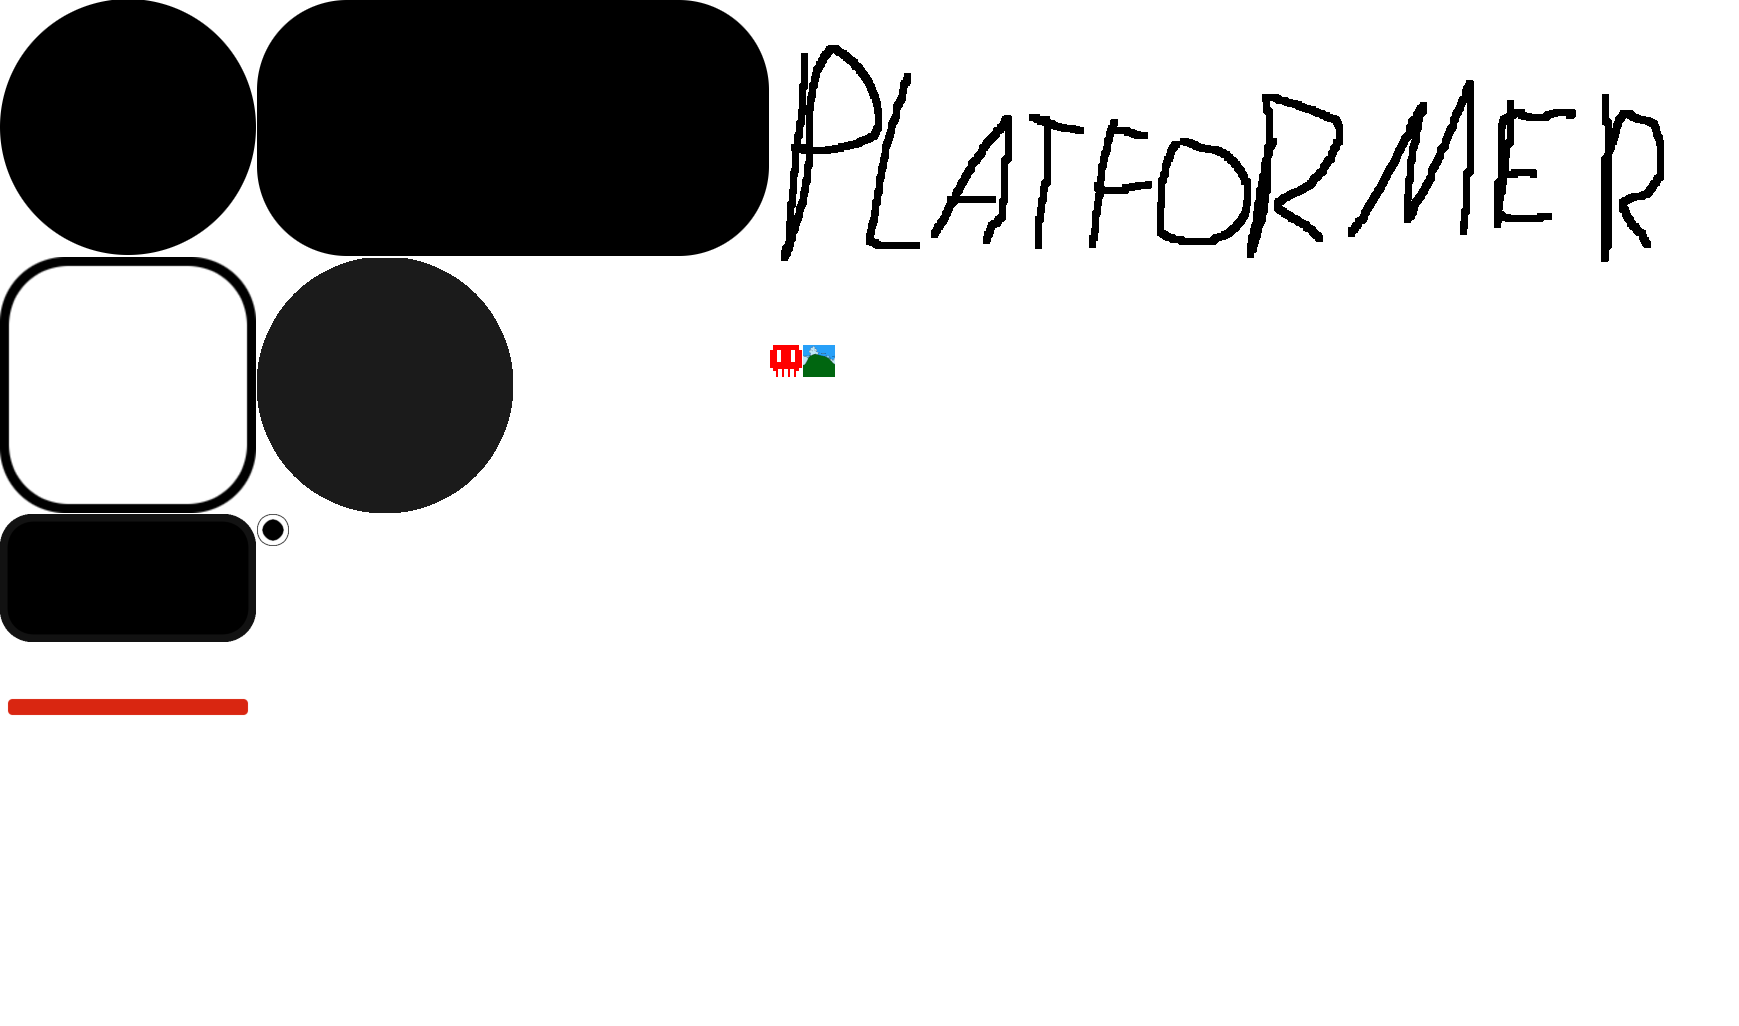
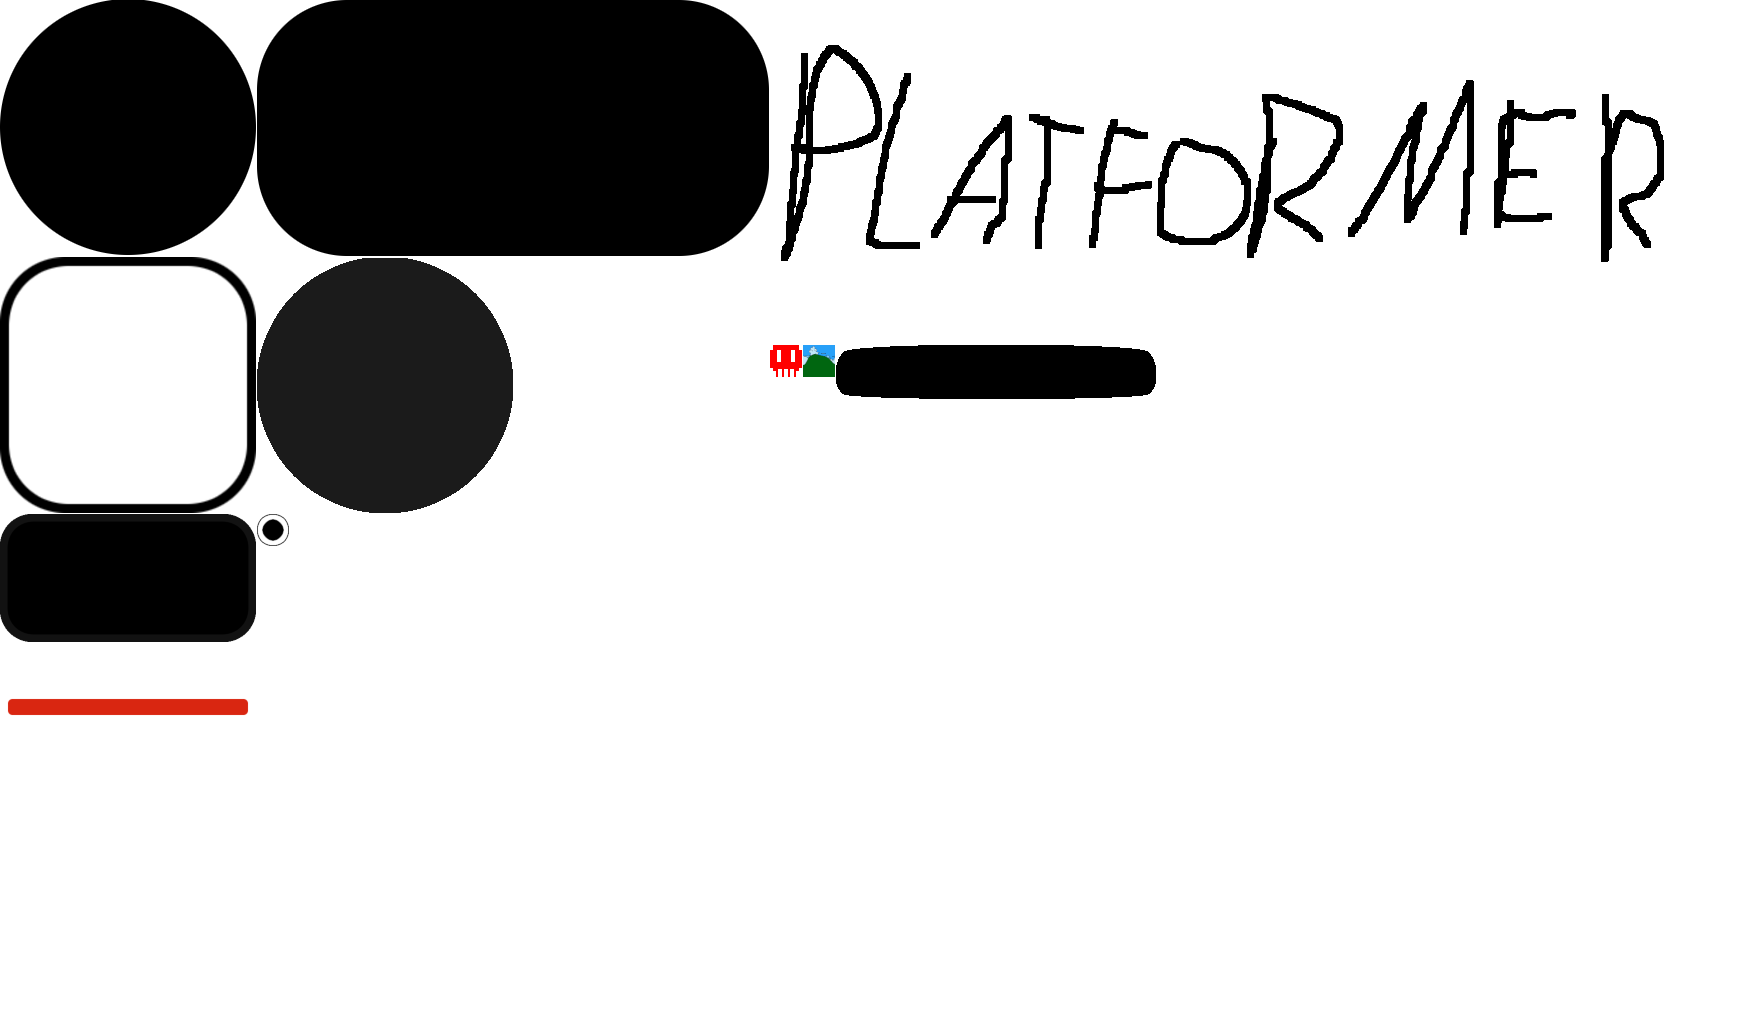
feat: better props ui

Changed region(s): [[0.4658, 0.3119, 0.6832, 0.4055]]

diff --git a/src/world/worlds/editor/ui.ts b/src/world/worlds/editor/ui.ts
@@ -1,10 +1,10 @@
-import { Content } from "@pixi/layout";
+import { Content, Layout } from "@pixi/layout";
 import { Input, ScrollBox } from "@pixi/ui";
 import { Screen } from "@ui/screen";
-import { GameObjectID, GOID, PropertyValue, PropType } from "gameObject";
-import { Sprite, Text, Texture } from "pixi.js";
+import { GameObjectID, GOID, PropertyValue } from "gameObject";
+import { Container, Sprite, Text, Texture } from "pixi.js";
 import { Editor } from ".";
-import { getClassFromID } from "gameObject/utils";
+import { getClassFromID, validateProp } from "gameObject/utils";
 import { Storage } from "@lib/storage";
 import { Window } from "@lib/ui/Window";
 import { SmallButton } from "@lib/ui/small_button";
@@ -27,7 +27,7 @@ export class EditorUi extends Screen {
 			text: "🗑",
 			hoverText: i18next.t("erase"),
 			hoverContainer: this,
-			onClick: (self) => {
+			onClick: () => {
 				this.switchErase();
 			},
 		});
@@ -141,7 +141,7 @@ export class EditorUi extends Screen {
 				content: this.props,
 				styles: {
 					position: "centerRight",
-					margin: 5,
+					marginRight: 150,
 					height: "50%",
 					width: "20%",
 				},
@@ -191,21 +191,22 @@ export class EditorUi extends Screen {
 		this.propertyValue = [];
 	}
 	get props() {
-		const propsContent: Content = [];
+		const propsContent: Layout[] = [];
 		if (!this.selected) return propsContent;
 
 		const props = getClassFromID(this.selected).props;
 
 		for (const prop of props) {
 			const input = new Input({
-				bg: Sprite.from("big_button"),
+				bg: "input",
 				textStyle: {
 					fill: "white",
-					fontSize: 100,
+					fontSize: 20,
 				},
-				placeholder: `Input ${prop.name}`,
+				nineSliceSprite: [160, 27, 160, 27],
+				placeholder: `Input ${prop.name} (${prop.type})`,
+				addMask: true,
 			});
-			input.scale = 0.2;
 			const placeholder = input.children.find((v) => {
 				if (!(v instanceof Text)) return false;
 				return v.text == `Input ${prop.name}`;
@@ -216,29 +217,14 @@ export class EditorUi extends Screen {
 			});
 			input.onEnter.connect((v) => {
 				Actions.lock = false;
-				switch (prop.type) {
-					case PropType.number: {
-						const isNumber = !isNaN(Number(v));
-						if (isNumber) break;
-						placeholder.text = "Invalid number";
-						input.value = "";
+				if (!validateProp({ value: v, type: prop.type, name: prop.name })) {
+					input.value = "";
+					placeholder.text = "Invalid input";
 
-						return;
-					}
-					case PropType.goid: {
-						if (getClassFromID(v as GameObjectID)) break;
-						placeholder.text = "Invalid gameObject";
-						input.value = "";
-
-						return;
-					}
-					case PropType.boolean: {
-						const valid = v == "true" || v == "false" || v == "1" || v == "0";
-						if (valid) break;
-						placeholder.text = "Invalid format";
-						input.value = "";
-						return;
-					}
+					setTimeout(() => {
+						placeholder.text = `Input ${prop.name} (${prop.type})`;
+					}, 2000);
+					return;
 				}
 				const find = this.propertyValue.findIndex((v) => v.name == prop.name);
 				if (find == -1) {
@@ -253,27 +239,30 @@ export class EditorUi extends Screen {
 			});
 
 			const text = new Text({ text: prop.name });
-			propsContent.push({
-				content: [
-					{
-						content: text,
-						styles: {
-							display: "inline-block",
-							maxWidth: "50%",
+			propsContent.push(
+				new Layout({
+					content: {
+						text: {
+							content: text,
+							styles: {
+								position: "centerLeft",
+								maxWidth: "50%",
+							},
+						},
+						input: {
+							content: input,
+							styles: {
+								position: "centerRight",
+								width: "50%",
+							},
 						},
 					},
-					{
-						content: input,
-						styles: {
-							maxWidth: "50%",
-							display: "inline-block",
-						},
+					styles: {
+						width: "100%",
+						height: 60,
 					},
-				],
-				styles: {
-					display: "block",
-				},
-			});
+				}),
+			);
 		}
 
 		return propsContent;

diff --git a/src/gameObject/utils.ts b/src/gameObject/utils.ts
@@ -1,9 +1,15 @@
+import {
+	GameObject,
+	GameObjectID,
+	GOID,
+	PropertyValue,
+	PropType,
+} from "gameObject";
 import { Goomba } from "@gameObjs/goomba";
 import { Grass } from "@gameObjs/grass";
 import { Ice } from "@gameObjs/ice";
 import { Koopa } from "@gameObjs/koopa";
 import { Player } from "@gameObjs/player";
-import { GameObject, GameObjectID, GOID } from "gameObject";
 import { Brick } from "@gameObjs/brick";
 import { Mushroom } from "@gameObjs/mushroom";
 import { MarkBlock } from "@gameObjs/markBlock";
@@ -87,5 +93,26 @@ export function getClassFromID(id: GameObjectID): typeof GameObject {
 			//@ts-expect-error
 			return Pipe;
 		}
+	}
+}
+
+export function validateProp(prop: PropertyValue): boolean {
+	switch (prop.type) {
+		case PropType.number: {
+			return !isNaN(Number(prop.value));
+		}
+		case PropType.goid: {
+			return getClassFromID(prop.value as GameObjectID) != undefined;
+		}
+		case PropType.boolean: {
+			return (
+				prop.value == "true" ||
+				prop.value == "false" ||
+				prop.value == "1" ||
+				prop.value == "0"
+			);
+		}
+		default:
+			return true;
 	}
 }
